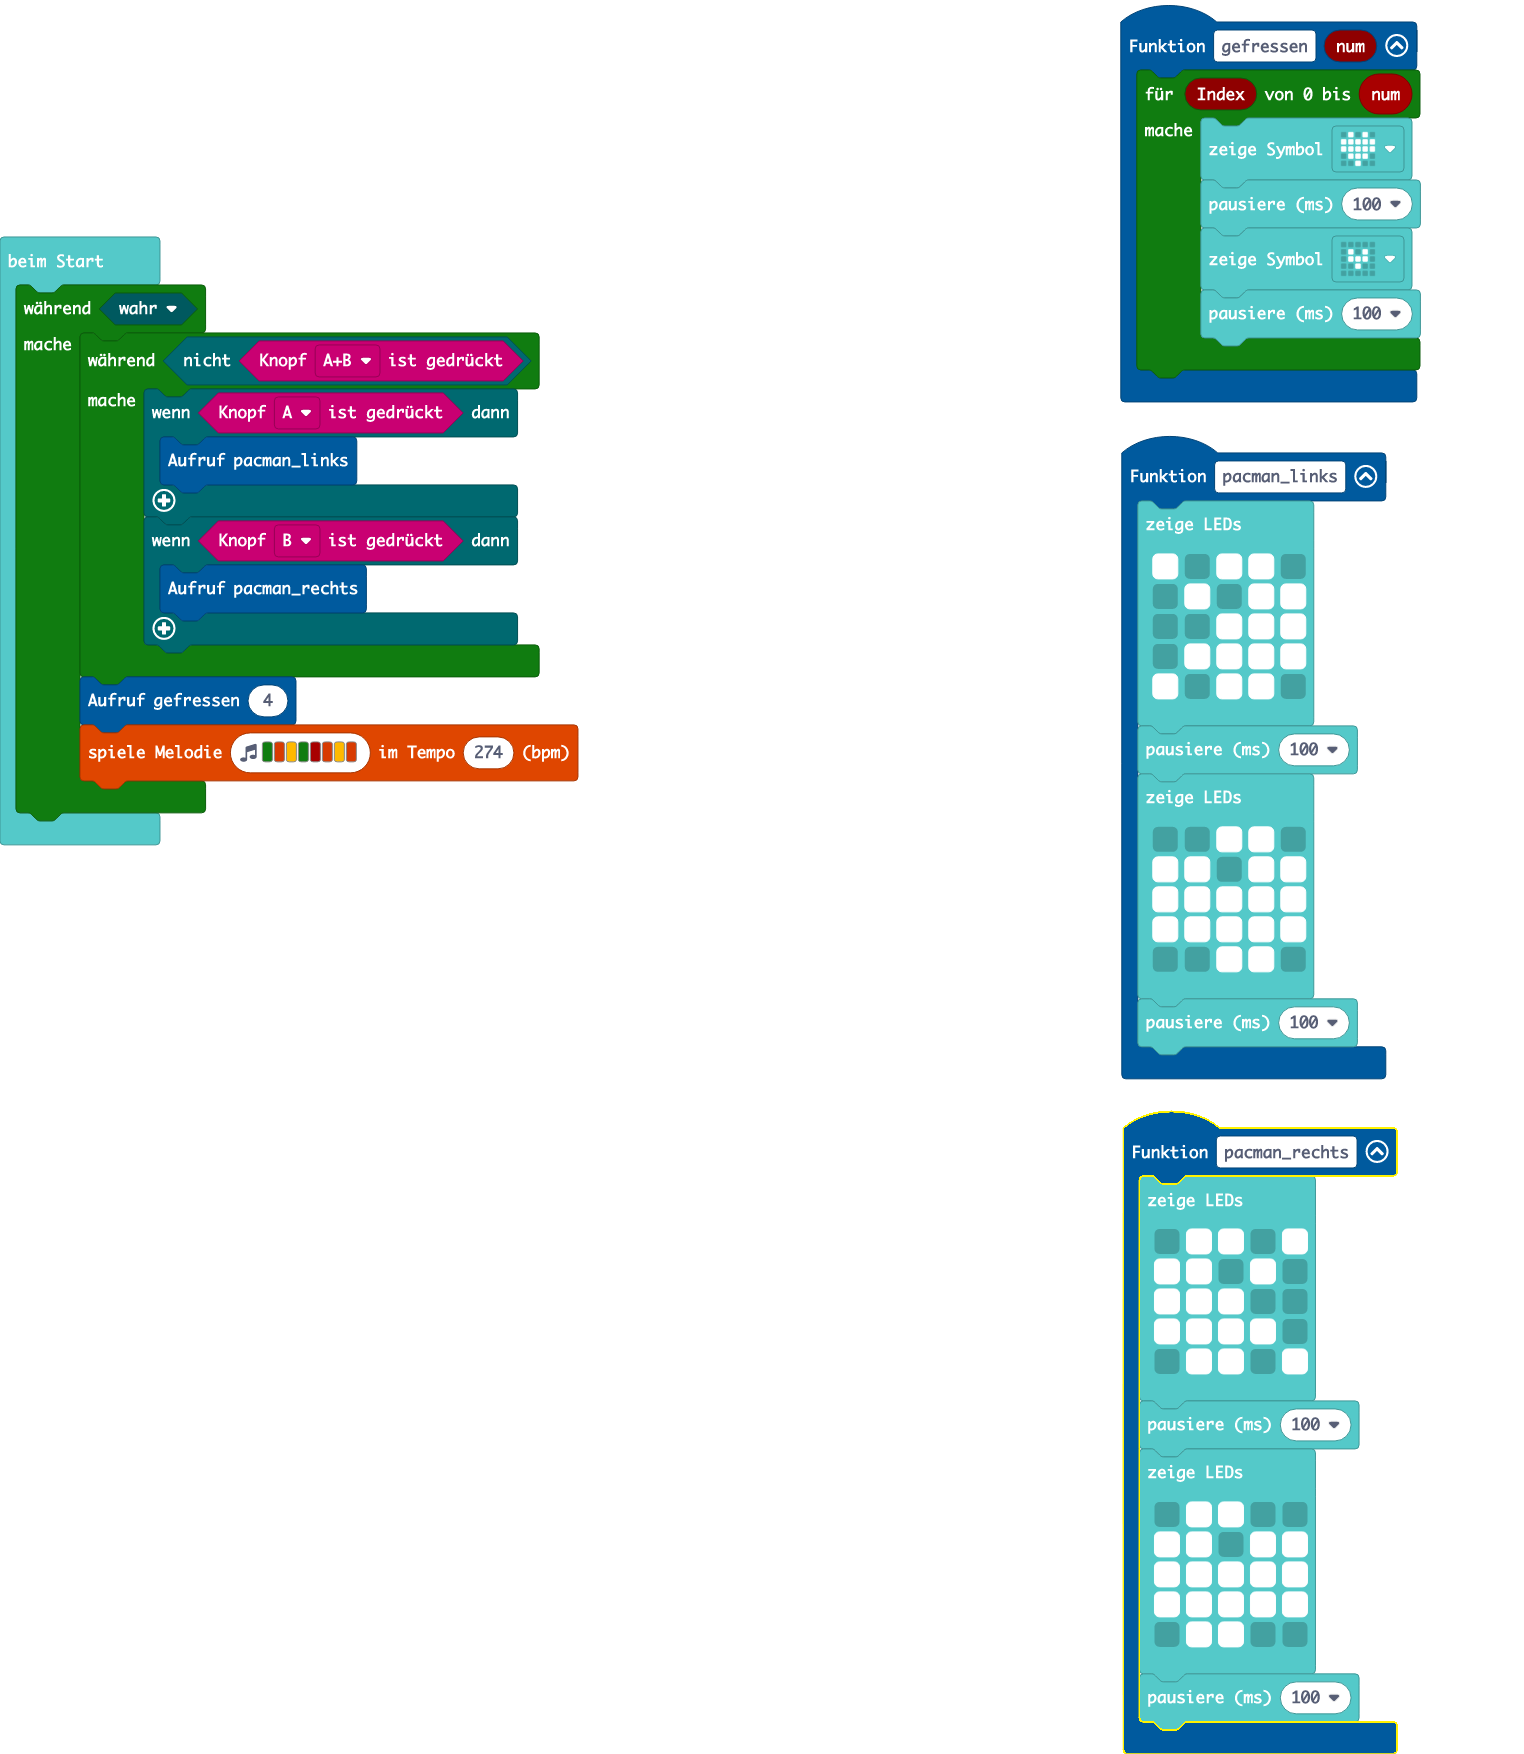
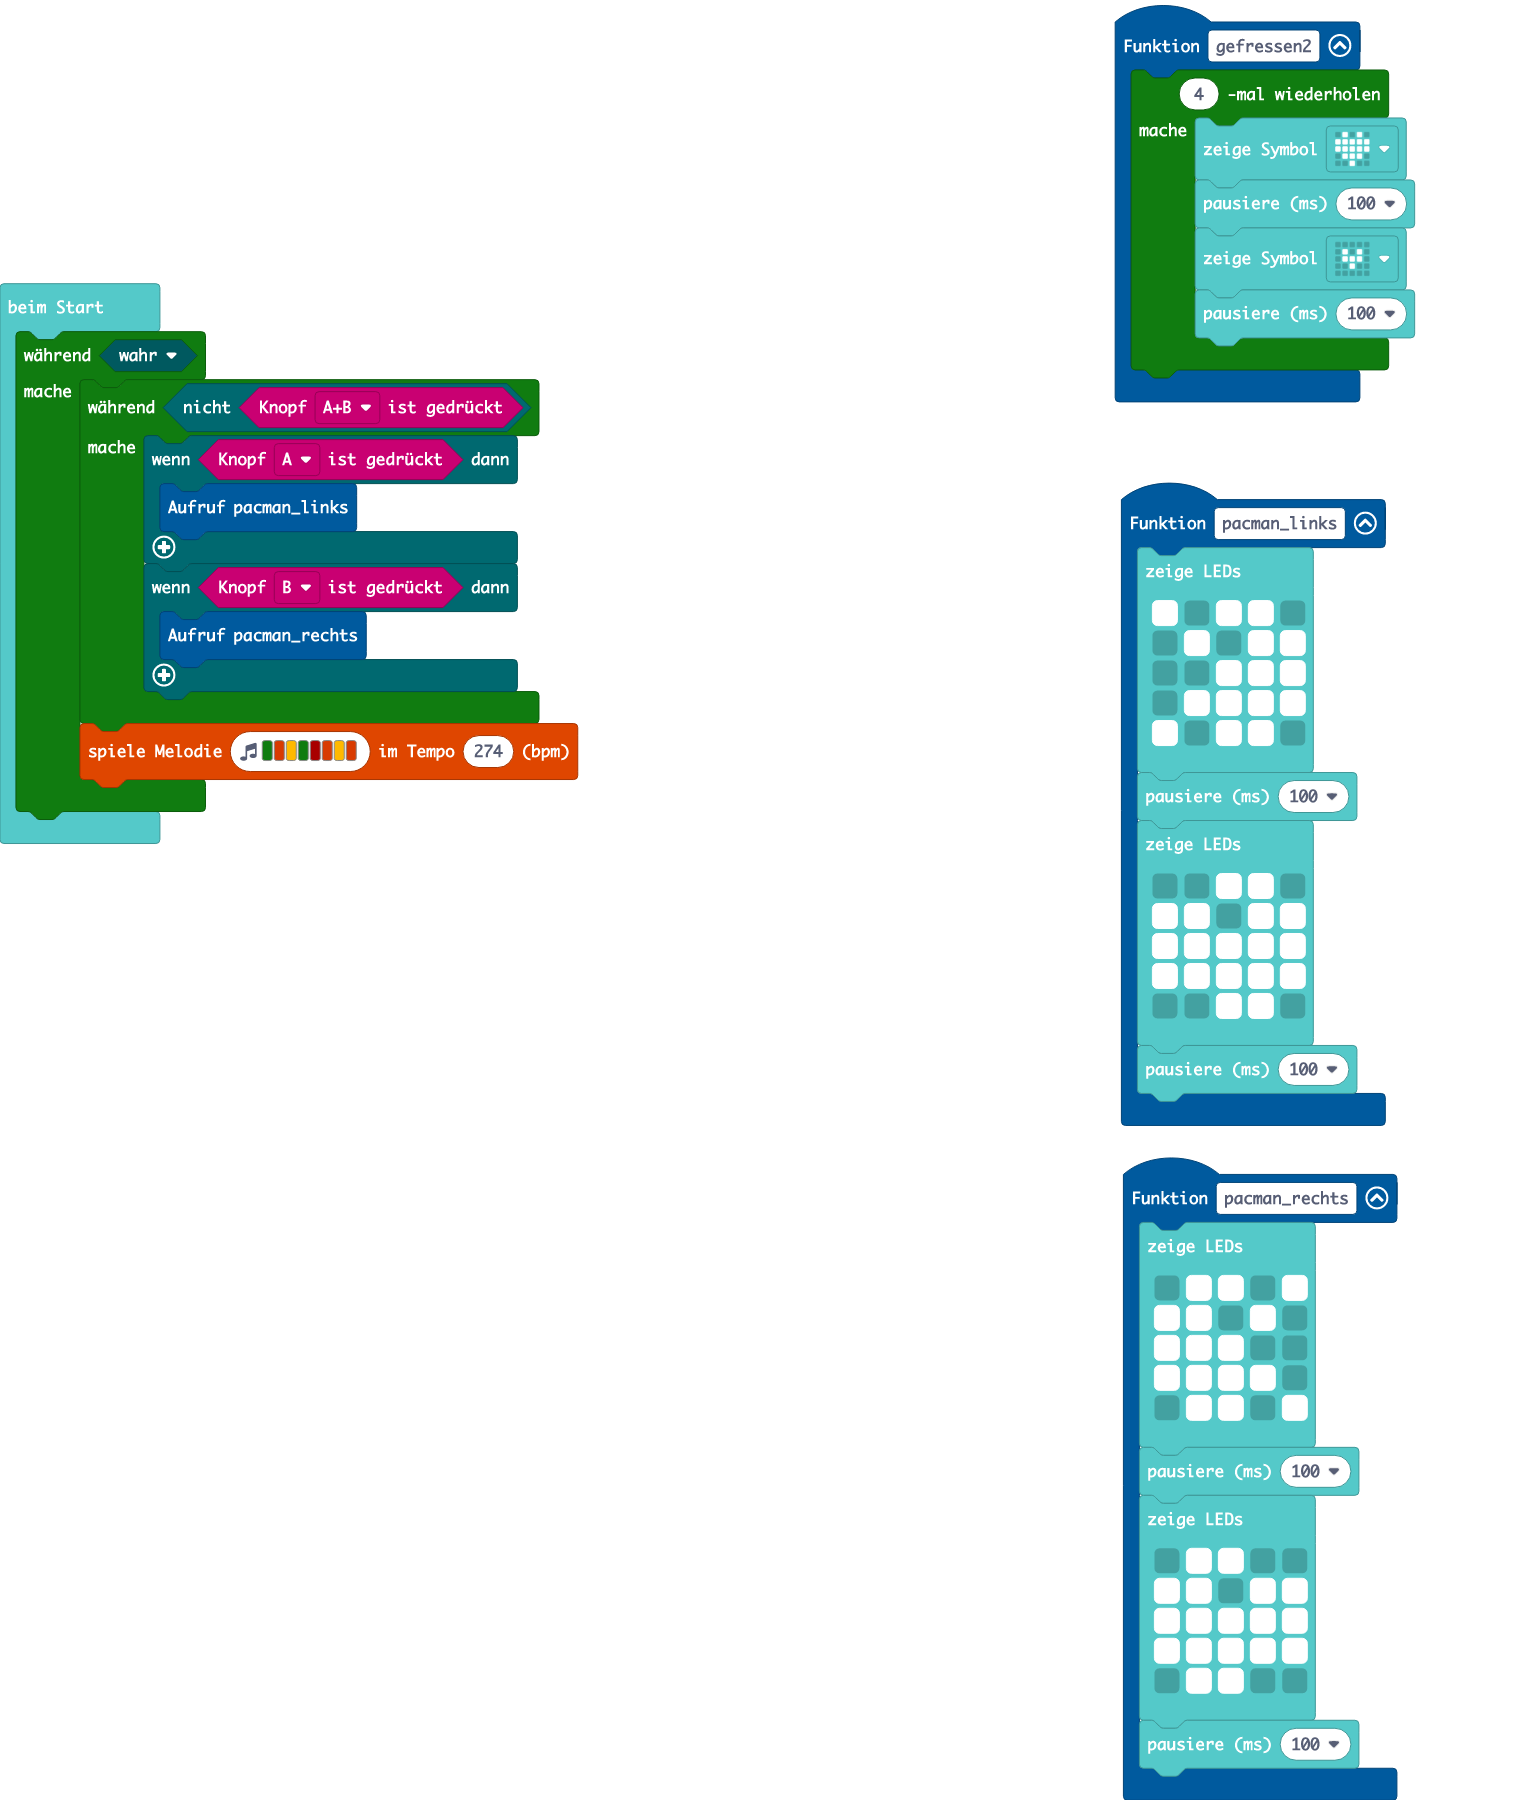
Aktualisiere main.blocks, main.ts

Changed region(s): [[0.7117, 0.0, 0.9592, 1.0], [0.0, 0.1231, 0.4022, 0.4926], [0.8973, 0.9852, 0.9282, 1.0]]

diff --git a/main.ts b/main.ts
@@ -34,8 +34,8 @@ function pacman_rechts () {
         `)
     basic.pause(100)
 }
-function gefressen (num: number) {
-    for (let Index = 0; Index <= num; Index++) {
+function gefressen2 () {
+    for (let index = 0; index < 4; index++) {
         basic.showIcon(IconNames.Heart)
         basic.pause(100)
         basic.showIcon(IconNames.SmallHeart)
@@ -51,6 +51,5 @@ while (true) {
             pacman_rechts()
         }
     }
-    gefressen(4)
     music.playMelody("G B A G C5 B A B ", 274)
 }
